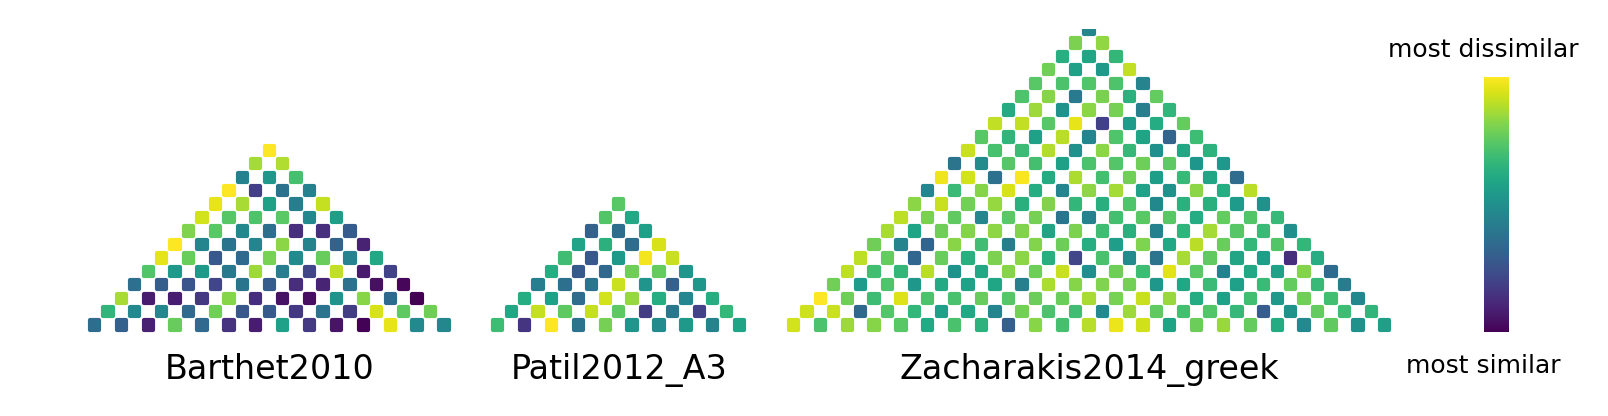
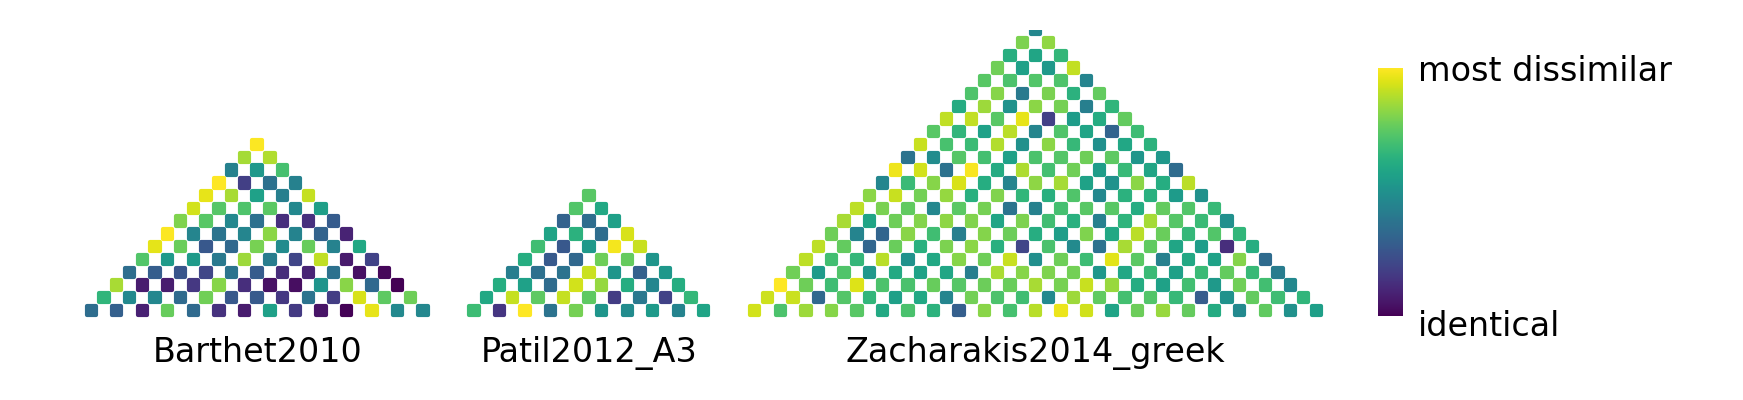
update plot

Changed region(s): [[0.0311, 0.06, 0.995, 0.9], [0.2799, 0.84, 0.8085, 0.93], [0.0933, 0.84, 0.2488, 0.93]]

diff --git a/scripts/plot_true_dissim.py b/scripts/plot_true_dissim.py
@@ -47,12 +47,12 @@ for label, start, size in zip(block_labels, starts, block_sizes):
         color="black",
     )
 
-cbar = plt.colorbar(scatter, pad=0.02, shrink=0.5, aspect=10)
+cbar = plt.colorbar(scatter, pad=0.0, shrink=0.5, aspect=10)
 cbar.outline.set_visible(False)
-cbar.ax.set_yticks([])
-cbar.ax.set_yticklabels([])
-cbar.ax.text(0, -0.15, "most similar", ha="center", va="bottom", fontsize=6)
-cbar.ax.text(0, 1.15, "most dissimilar", ha="center", va="top", fontsize=6)
+cbar.ax.set_yticks([0,1])
+cbar.ax.set_yticklabels(["identical", "most dissimilar    "])
+# cbar.ax.tick_params(axis='y', which='both', length=0)
+cbar.ax.tick_params(labelsize=8, length=0)
 
 plt.gca().set_aspect("equal")
 plt.ylim(label_y_position - 2, np.max(y))
